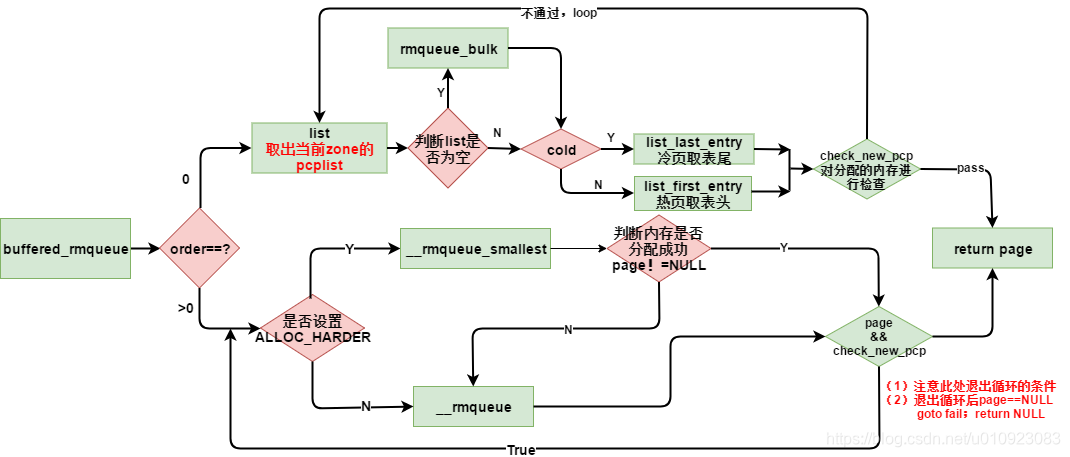
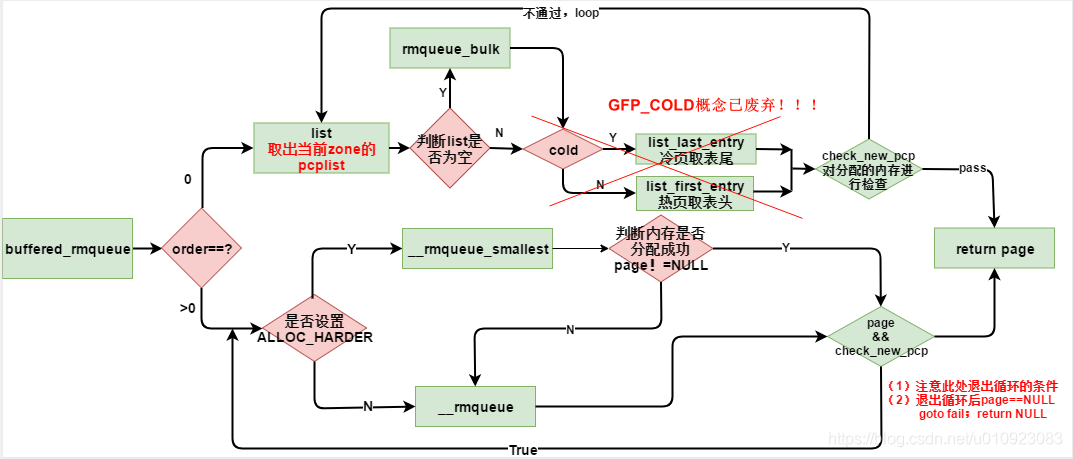
add swap and tired memory

diff --git a/source/_posts/内存冷热和层级内存.md b/source/_posts/内存冷热和层级内存.md
@@ -62,7 +62,8 @@ ARM64上PTE稍有不同，格式如下:
 
 ![lruvec and pagevec](/images/hot-n-cold-memory-lruvec-pagevec.png)
 
-内核中的内存页面回收的算法就叫做PFRA(page frame reclaiming algorithm)，这个算法主要要做的就是：
+那页面回收时，实际上就是以numa node为基础，针对lruvec进行页面回收。
+回收的算法就叫做PFRA(page frame reclaiming algorithm)，这个算法主要要做的就是：
 
 * 回收什么样的页面
 * 什么时候回收 &如何回收
@@ -123,7 +124,7 @@ swap流程如下：
 
 ![swap process](/images/hot-n-cold-memory-swap2.png)
 
-# 内存冷热-概念已废弃，仅供参考
+# 内存冷热
 
 所谓冷热是针对处理器中的cache来说的，冷就是页不大可能在cache中，热就是有很大几率在cache中。
 
@@ -208,3 +209,5 @@ promotion主要还是基于前面讲的page fault中的numa balance。
 * [Linux Swap 从 userspace 到 kernel详解](https://blog.csdn.net/qkhhyga2016/article/details/88722458?spm=1001.2014.3001.5501)
 * [Linux 内核的内存回收机制](https://bluepuni.com/archives/linux-memory-reclaim/)
 * [Linux中的内存回收](https://zhuanlan.zhihu.com/p/70964195)
+* [内存](https://hhb584520.github.io/kvm_blog/2017/03/06/kernel-memory.html)
+* [15-内存管理篇(Part1: 原理 + page.s + swap.c)](https://blog.csdn.net/qq_42800075/article/details/105117009)
